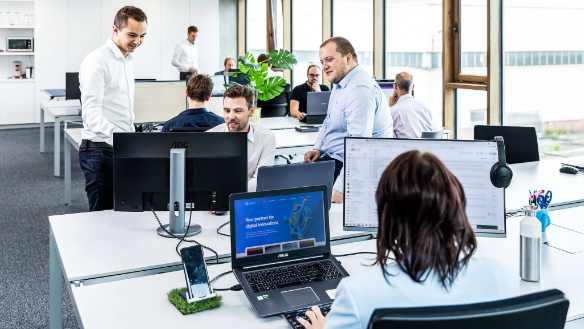
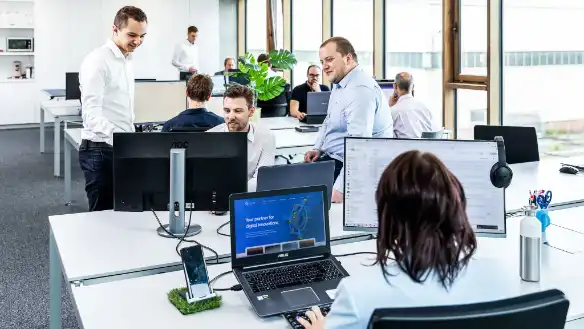
Update images

diff --git a/resources/js/pages/website/about-us.vue b/resources/js/pages/website/about-us.vue
@@ -7,12 +7,12 @@ import aboutImage1 from "@assets/images/team_4_584.webp";
 import aboutImage2 from "@assets/images/team_584.webp";
 import aboutImage3 from "@assets/images/team_10_584.webp";
 import aboutImage4 from "@assets/images/team_3_584.webp";
-import aboutImage5 from "@assets/images/team_5.webp";
-import aboutImage6 from "@assets/images/team_2.webp";
-import aboutImage7 from "@assets/images/team_6.webp";
-import aboutImage8 from "@assets/images/team_7.webp";
-import aboutImage9 from "@assets/images/team_8.webp";
-import aboutImage10 from "@assets/images/team_9.webp";
+import aboutImage5 from "@assets/images/team_5_1046.webp";
+import aboutImage6 from "@assets/images/team_2_1046.webp";
+import aboutImage7 from "@assets/images/team_6_1046.webp";
+import aboutImage8 from "@assets/images/team_7_1046.webp";
+import aboutImage9 from "@assets/images/team_8_1046.webp";
+import aboutImage10 from "@assets/images/team_9_1046.webp";
 import LargeImageComponent from "@components/large-image-component.vue";
 
 const textBlockImageComponents: TextBlockImageInterface[] = [
